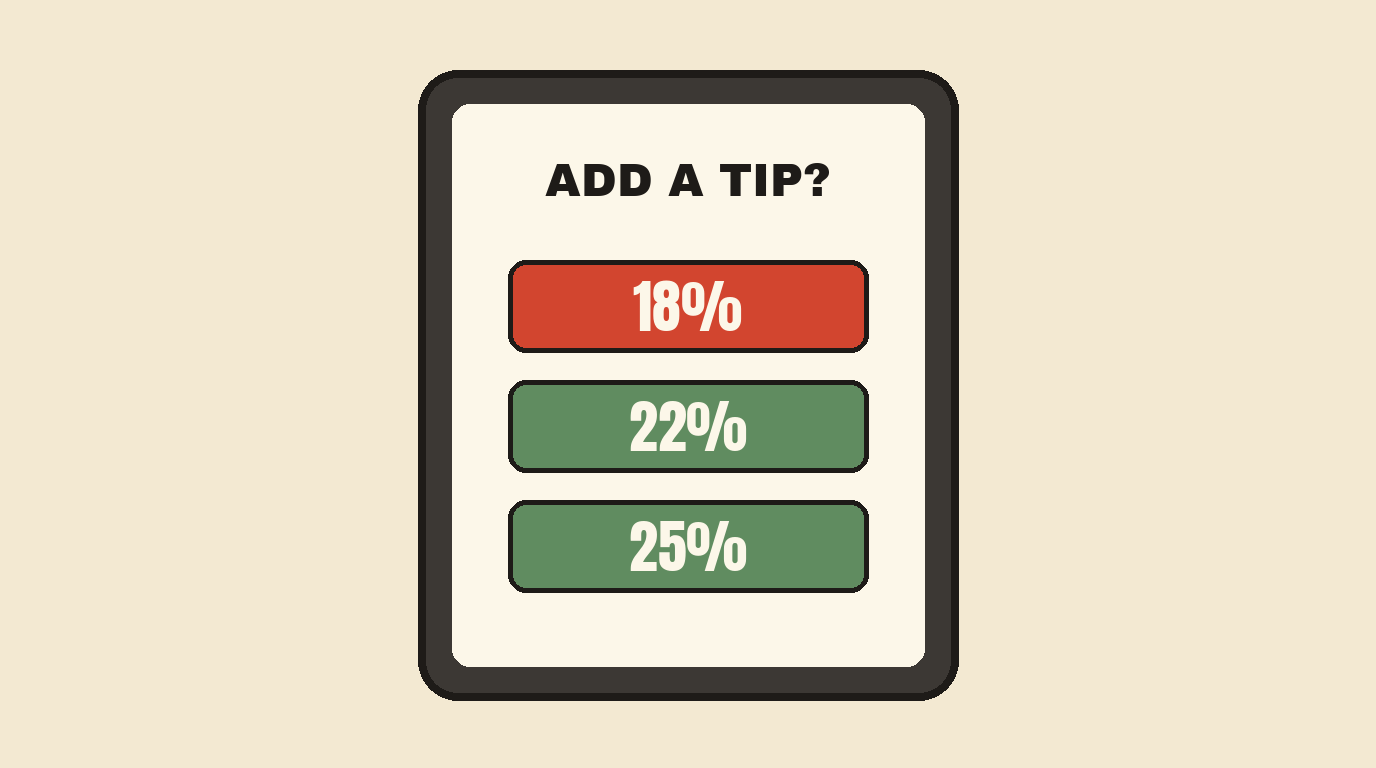
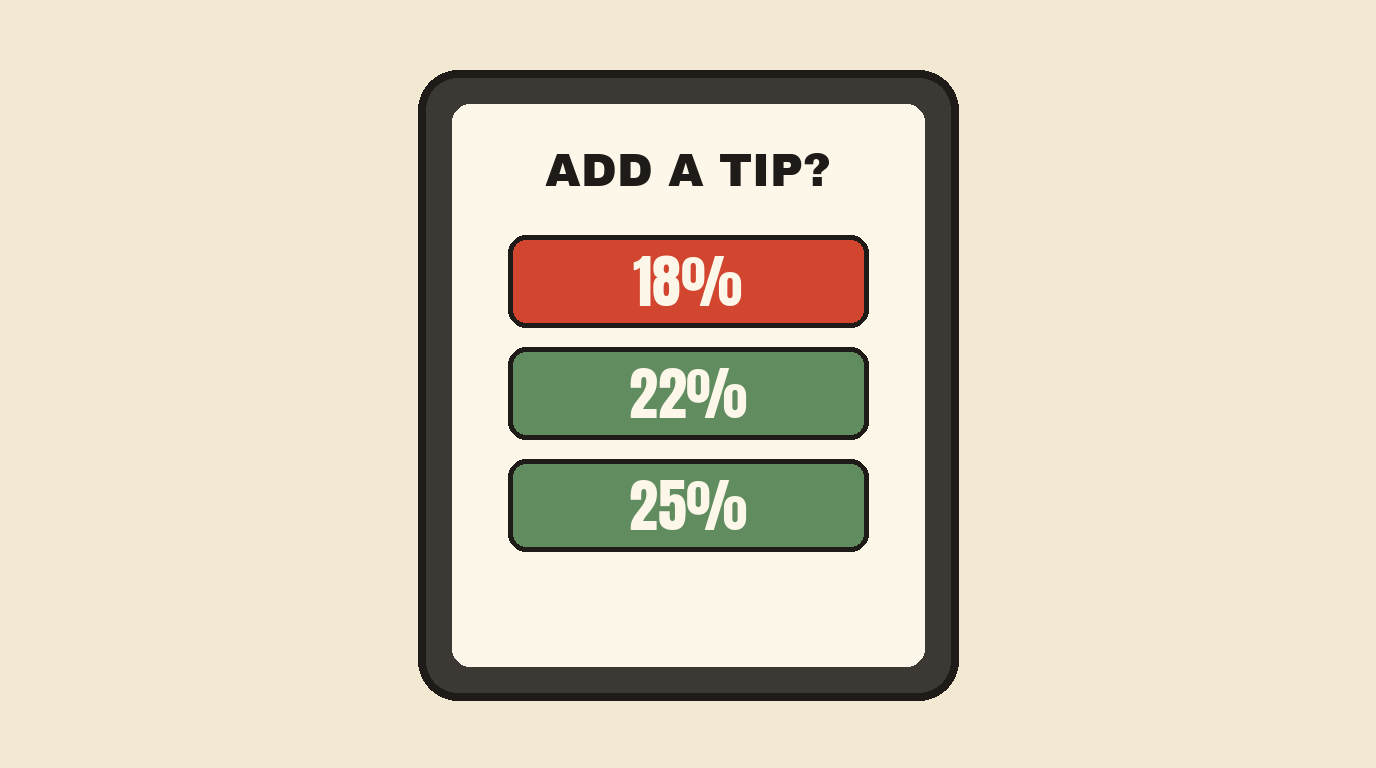
Ep.4 end screen: verdict on four large lines written as spoken, No tip clear of the 25 % button, pointer chevron removed
Claude-Session: https://claude.ai/code/session_013pWx4qcpXPWropjuHuEZgS

Changed region(s): [[0.3438, 0.1875, 0.6562, 0.7812]]

diff --git a/factory/endscreen.py b/factory/endscreen.py
@@ -137,7 +137,9 @@ class EndScreenShot(Shot):
         head = resolve_font(cfg["fonts"]["headline"])
         typew = resolve_font(cfg["fonts"].get("typewriter") or cfg["fonts"]["serif"])
         # ---- phase 1: the closed folder, lying landscape on the desk
-        fw, fh = int(W * 0.66), int(H * 0.70)
+        nv = len(spec.get("verdict") or [])
+        fw0 = int(W * 0.66)  # label and stamp keep the classic size
+        fw, fh = (int(W * 0.88) if nv > 2 else fw0), int(H * 0.70)  # 3-4 verdict lines: wider folder, same letters
         self.fx, self.fy = (W - fw) // 2, int(H * 0.06)
         manila = (222, 186, 120)
         folder = Image.new("RGBA", (fw, fh + int(fh * 0.06)), (0, 0, 0, 0))
@@ -145,22 +147,30 @@ class EndScreenShot(Shot):
         tab = int(fh * 0.06)
         d.rectangle((int(fw * 0.06), 0, int(fw * 0.32), tab + 4), fill=tuple(int(c * 0.93) for c in manila) + (255,))
         d.rectangle((0, tab, fw - 1, tab + fh - 1), fill=manila + (255,), outline=tuple(int(c * 0.7) for c in manila) + (255,), width=4)
-        lab = (int(fw * 0.05), tab + int(fh * 0.07), int(fw * 0.47), tab + int(fh * 0.30))
+        lab = (int(fw0 * 0.05), tab + int(fh * 0.07), int(fw0 * 0.47), tab + int(fh * 0.30))
         d.rectangle(lab, fill=(250, 246, 236, 255), outline=pal["ink"] + (255,), width=3)
         f1 = font(typew, int(fh * 0.050))
         d.text((lab[0] + int(fw * 0.02), lab[1] + int(fh * 0.03)), f"CASE FILE #{spec.get('number', '001')}", font=f1, fill=pal["ink"])
         f2, l2 = fit_font(str(spec.get("title", "")).upper(), head, int((lab[2] - lab[0]) * 0.9), int(fh * 0.12), start=int(fh * 0.10))
         d.text((lab[0] + int(fw * 0.02), lab[1] + int(fh * 0.10)), " ".join(l2), font=f2, fill=pal["ink"])
-        d.text((int(fw * 0.05), tab + int(fh * 0.92)), "CONFIDENTIAL", font=font(typew, int(fh * 0.035)), fill=tuple(int(c * 0.55) for c in manila))
+        d.text((int(fw0 * 0.05), tab + int(fh * 0.92)), "CONFIDENTIAL", font=font(typew, int(fh * 0.035)), fill=tuple(int(c * 0.55) for c in manila))
         self.folder = add_grain(np.array(folder), 0.0)
-        self.stamp = _stamp(spec.get("stamp", "Case closed"), cfg, int(fw * 0.50), pal["red"], 8, seed + 3)
-        self.stamp_pos = (self.fx + int(fw * 0.72), self.fy + int(fh * 0.25))
+        self.stamp = _stamp(spec.get("stamp", "Case closed"), cfg, int(fw0 * 0.50), pal["red"], 8, seed + 3)
+        self.stamp_pos = (self.fx + fw - int(fw0 * 0.28), self.fy + int(fh * 0.25))
         vsz = int(H * 0.10)
-        while vsz > 20 and max((font(marker, vsz).getlength(v) for v in (spec.get("verdict") or [""])), default=0) > fw * 0.86:
+        while vsz > 20 and max((font(marker, vsz).getlength(v) for v in (spec.get("verdict") or [""])), default=0) > fw * (0.86 if nv <= 2 else 0.90):
             vsz -= 2  # long verdict lines shrink to stay on the folder
         vf = font(marker, vsz)
-        self.verdict = [Writing(v, vf, pal["ink"]) for v in (spec.get("verdict") or [])][:2]
-        self.v_pos = [(self.fx + int(fw * 0.06), self.fy + int(fh * 0.47) + i * int(H * 0.15)) for i in range(len(self.verdict))]
+        self.verdict = [Writing(v, vf, pal["ink"]) for v in (spec.get("verdict") or [])][:4]
+        if nv > 2:  # four lines under the label, each written as it is spoken (verdict_at / verdict_dur, seconds)
+            y0, pitch = int(fh * 0.40), int(H * 0.091)
+            self.v_pos = [(self.fx + int(fw * 0.05), self.fy + y0 + i * pitch) for i in range(len(self.verdict))]
+        else:
+            self.v_pos = [(self.fx + int(fw * 0.06), self.fy + int(fh * 0.47) + i * int(H * 0.15)) for i in range(len(self.verdict))]
+        tt0 = self.t
+        vat = spec.get("verdict_at") or [tt0["v1"] - lead_in, tt0["v2"] - lead_in]
+        vdu = spec.get("verdict_dur") or [tt0["vdur"]] * len(self.verdict)
+        self.v_times = [(float(vat[i]) + lead_in, float(vdu[i])) for i in range(len(self.verdict))]
         # ---- phase 2: next-case sheet with the subject drawn twice
         nx = spec.get("next") or {}
         sx0, sy0, sx1, sy1 = (int(SHEET[0] * W), int(SHEET[1] * H), int(SHEET[2] * W), int(SHEET[3] * H))
@@ -355,17 +365,33 @@ class EndScreenShot(Shot):
                 st = cv2.resize(self.stamp, (max(1, int(self.stamp.shape[1] * sc)), max(1, int(self.stamp.shape[0] * sc))))
                 blend(out, st, self.stamp_pos[0] + dx - st.shape[1] // 2, self.stamp_pos[1] - st.shape[0] // 2, opacity=min(1.0, 0.3 + p))
             for i, wr in enumerate(self.verdict):
-                t0 = tt["v1"] if i == 0 else tt["v2"]
-                p = (t - t0) / tt["vdur"]
+                t0, vd = self.v_times[i]
+                p = (t - t0) / vd
                 if p <= 0:
                     continue
                 vx, vy = self.v_pos[i]
                 blend(out, wr.at(p), vx + dx, vy)
-                if p < 1.25 and dx == 0:
-                    tip = hand_path(lambda q, wr=wr, vx=vx, vy=vy, t0=t0: (vx + wr.tip((q - t0) / tt["vdur"])[0], vy + wr.tip((q - t0) / tt["vdur"])[1]),
-                                    t0, t0 + tt["vdur"], t, W, H, False, from_below=True)
-                    if tip:
-                        hand = ("ink_under", tip[0], tip[1], False)
+            if self.verdict and dx == 0:  # one hand writes every line; between lines it travels back to the next start
+                vt = self.v_times
+
+                def vtip(q):
+                    for k, (a, d_) in enumerate(vt):
+                        vx, vy = self.v_pos[k]
+                        if q <= a + d_ or k == len(vt) - 1:
+                            if q >= a or k == 0:
+                                x, y = self.verdict[k].tip((q - a) / d_)
+                                return vx + x, vy + y
+                            pa, pd = vt[k - 1]
+                            px, py = self.v_pos[k - 1]
+                            ex, ey = self.verdict[k - 1].tip(1.0)
+                            sx_, sy_ = self.verdict[k].tip(0.0)
+                            u = ease(min(1.0, max(0.0, (q - pa - pd) / max(0.05, a - pa - pd))))
+                            return (px + ex) + ((vx + sx_) - (px + ex)) * u, (py + ey) + ((vy + sy_) - (py + ey)) * u
+                    return None
+
+                tip = hand_path(vtip, vt[0][0], vt[-1][0] + vt[-1][1], t, W, H, False, from_below=True)
+                if tip:
+                    hand = ("ink_under", tip[0], tip[1], False)
         # phase 2: the next-case sheet slides in from the right
         if t > tt["swap"] + 0.1:
             p = ease((t - tt["swap"] - 0.1) / 0.6)
@@ -506,7 +532,7 @@ class EndScreenShot(Shot):
                                     tt["sketch"], tt["sketch"] + tt["skdur"], t, W, H, False)
                     if tip:
                         hand = ("pencil", tip[0], tip[1], False)
-        # our subscribe button beside YouTube's subscribe zone, with a drawn arrow pointing at it
+        # our subscribe button beside YouTube's subscribe zone (the 30 px pointer arrow read as a stray '<': removed)
         if t >= tt["sub"]:
             pressed = t >= tt["click"]
             img = self.btn[pressed]
@@ -516,16 +542,6 @@ class EndScreenShot(Shot):
             im2 = cv2.resize(img, (max(1, int(img.shape[1] * sc)), max(1, int(img.shape[0] * sc))))
             bx, by = int(W * 0.17), int(H * 0.69)
             blend(out, im2, bx, by + down + (img.shape[0] - im2.shape[0]) // 2)
-            # arrow from the button to the subscribe zone
-            ax0, ay0 = bx - 8, by + img.shape[0] // 2
-            ax1 = int(SUB_ZONE[2] * W) + 10
-            ap = min(1.0, (t - tt["sub"] - 0.3) / 0.4)
-            if ap > 0:
-                xe = int(ax0 + (ax1 - ax0) * ap)
-                cv2.line(out, (ax0, ay0), (xe, ay0 + int(4 * math.sin(ap * 3))), tuple(int(c) for c in self.pal["paper"]), 5, cv2.LINE_AA)
-                if ap >= 1:
-                    for s in (+1, -1):
-                        cv2.line(out, (ax1, ay0), (ax1 + 22, ay0 + s * 16), tuple(int(c) for c in self.pal["paper"]), 5, cv2.LINE_AA)
             if True:
                 age = t - tt["click"] if pressed else 9.0
                 ang = 22 * math.sin(age * 22) * math.exp(-age * 2.2) if pressed else 6 * math.sin((t - tt["sub"]) * 5)
@@ -555,9 +571,8 @@ class EndScreenShot(Shot):
     def sfx(self, start_abs: float) -> list[tuple[float, str]]:
         tt = self.t
         out = [(start_abs + tt["stamp"], "stamp")]
-        for i in range(len(self.verdict)):
-            t0 = tt["v1"] if i == 0 else tt["v2"]
-            out += [(start_abs + t0 + k * 0.3, "marker") for k in range(int(tt["vdur"] / 0.3))]
+        for t0, vd in self.v_times:
+            out += [(start_abs + t0 + k * 0.3, "marker") for k in range(max(1, int(vd / 0.3)))]
         out += [(start_abs + tt["swap"], "whoosh"), (start_abs + tt["swap"] + 0.5, "paper")]
         if self.draw is not None:
             k = 0.0

diff --git a/episodes/0005-drip-pricing/gen_script.py b/episodes/0005-drip-pricing/gen_script.py
@@ -53,9 +53,9 @@ def make_tablet(path):
     x0, y0, x1, y1 = 418, 70, 958, 700
     d.rounded_rectangle((x0, y0, x1, y1), radius=40, fill=(60, 56, 52), outline=ink, width=8)
     d.rounded_rectangle((x0 + 34, y0 + 34, x1 - 34, y1 - 34), radius=18, fill=paper)
-    d.text(((x0 + x1) / 2, y0 + 110), "ADD A TIP?", font=_fnt("ArchivoBlack-Regular.ttf", 46), fill=ink, anchor="mm")
+    d.text(((x0 + x1) / 2, y0 + 100), "ADD A TIP?", font=_fnt("ArchivoBlack-Regular.ttf", 46), fill=ink, anchor="mm")
     for k, t in enumerate(["18%", "22%", "25%"]):
-        by = y0 + 190 + k * 120
+        by = y0 + 165 + k * 112  # leaves room under the 25 % button for the handwritten "No tip"
         d.rounded_rectangle((x0 + 90, by, x1 - 90, by + 92), radius=18, fill=green if k else red, outline=ink, width=5)
         d.text(((x0 + x1) / 2, by + 46), t, font=_fnt("Anton-Regular.ttf", 58), fill=paper, anchor="mm")
     im.save(path)
@@ -451,9 +451,11 @@ beat("z0", S_CLOSE, "Case closed. Larry paid forty-eight dollars for a thirty-do
 beat("z0b", S_CLOSE, "He went to the concert anyway. The band was worth thirty. The checkout was worth nothing. Now he knows where the eighteen went.",
      reuse("z0", push={"center": [0.45, 0.40], "zoom": 1.6}, closeup=closeup("checkout", [0.58, 0.62], 2.0)), hero=True)
 ES = {"number": "004", "title": "The fee at the end", "stamp": "Case closed",
-      "verdict": ["Guilty: the checkout fee and its cousin, the resort fee.", "Accomplice: the first number on the screen."],
+      # four lines at the Ep.3 letter size, each written from its first spoken word (real-voice word times)
+      "verdict": ["Guilty: the checkout fee", "and its cousin, the resort fee.", "Accomplice:", "the first number on the screen."],
+      "verdict_at": [1.4, 3.17, 5.36, 6.25], "verdict_dur": [1.55, 1.9, 0.72, 1.55],
       "next": {"number": "005", "title": "Tip screens", "tagline": "18 % · 22 % · 25 % · No tip?", "image_file": "next_tablet.png",
-               "copies": 1, "writes": [{"text": "No tip", "x": 0.5, "y": 0.86, "h": 0.035}],
+               "copies": 1, "writes": [{"text": "No tip", "x": 0.5, "y": 0.880, "h": 0.085}],
                "label": ["72 % say tipping is expected in more places", "Pew Research Center · Nov 2023"], "label_under": True},
       # timed on the real voice (CI timings 2026-10-21): verdict lines written as spoken, swap after "screen.",
       # sketch with "Next case", "No tip" on "tip", Pew plate after "coffee", click on "Subscribe"

diff --git a/docs/PIPELINE_HANDOFF.md b/docs/PIPELINE_HANDOFF.md
@@ -135,6 +135,10 @@ gh run list --workflow render.yml -L 1 --json databaseId,status,conclusion
     tools/tts_probe.py (tts-probe.yml) publishes real timings to release probe-<slug> (voiced.json) → rebuild the plan
     locally fast with scratchpad plan_real.py-style script (zero audio + real word times).
   - End screen z1..z5 = 19.4 s on the real voice (target ≤ 22 s); ES times retimed to the real words (see gen_script).
+  - End-screen fixes 2026-10-22 (approved preview + 3 fixes): verdict = 4 lines at the Ep.3 letter size (96 px marker,
+    wider folder when >2 lines; "verdict_at"/"verdict_dur" per line, one hand travelling line to line); "No tip" moved
+    below the 25 % button (tablet buttons raised); the short white pointer "<" left of SUBSCRIBE removed (shared code:
+    Ep.3 gets it at its next rebuild). Shown to Klot as 3 local stills; no CI re-render yet.
   - NEXT: when images/o4.png arrives → cold-open preview (render.yml preview=yes, upto=cf1).
 - (older) Episode 4 structure sent 2026-10-21 (episodes/0005-drip-pricing/structure.md), waiting for approval of:
   structure, defence (legit-cost per his rule; option to add StubHub's own 2023 statement, attributed), Ep.5
